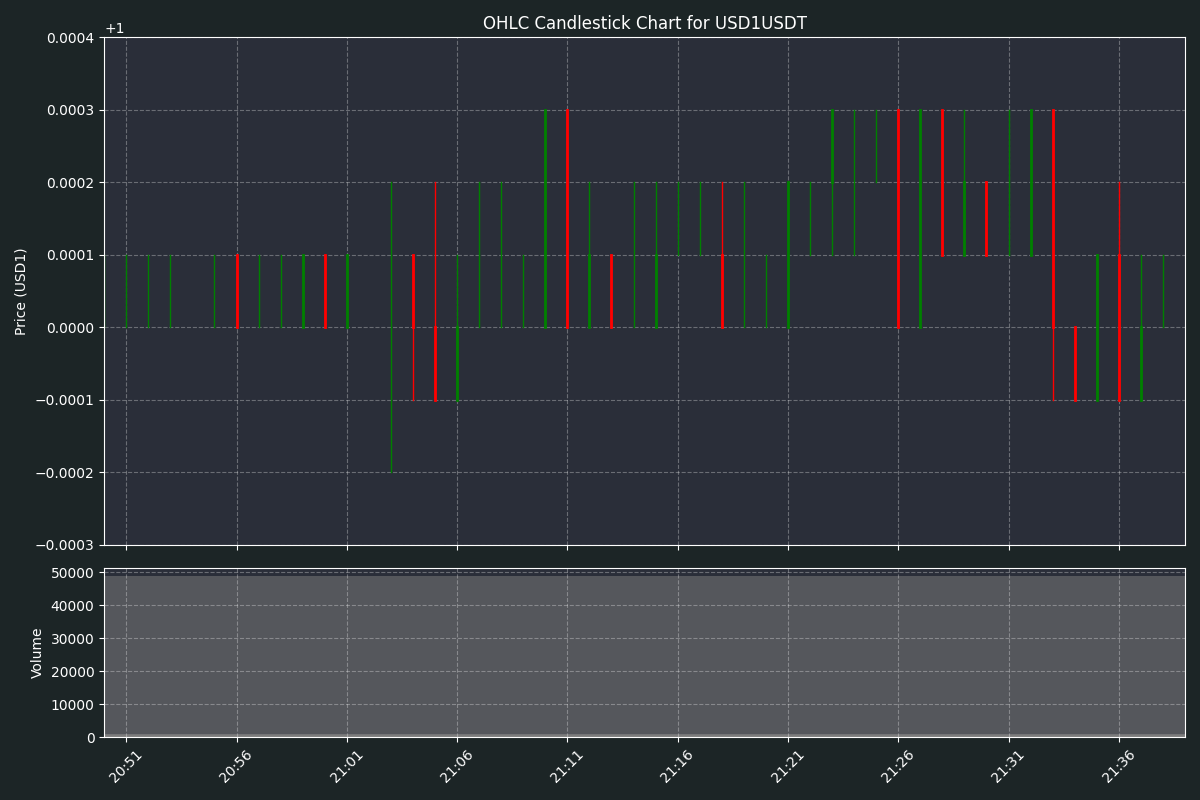
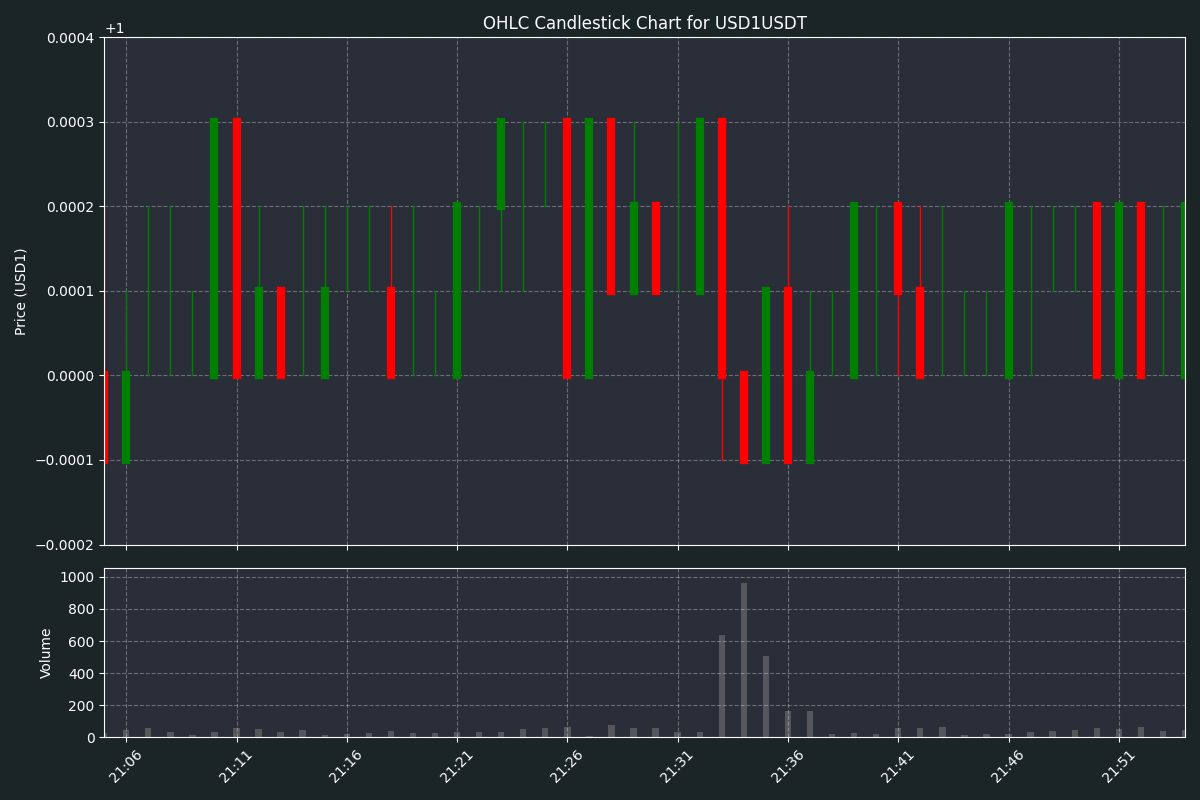
Increase candlestick width, fix volume bars, correct SDK order placement, and fix fetch_orders sync issue

diff --git a/plot.py b/plot.py
@@ -14,13 +14,13 @@ from mexc_sdk import Spot
 
 logger = logging.getLogger(__name__)
 
-async def fetch_orders(client):
-    """Fetch open and executed orders from MEXC SDK."""
+def fetch_orders(client):
+    """Fetch open and executed orders from MEXC SDK (synchronous)."""
     try:
         symbol = "USD1USDT"  # Default symbol
 
-        # Fetch open orders
-        open_orders = await client.open_orders(symbol)
+        # Fetch open orders (synchronous method)
+        open_orders = client.open_orders(symbol)  # No 'await' needed
         open_orders_list = [
             {
                 "price": float(order["price"]),
@@ -30,8 +30,8 @@ async def fetch_orders(client):
             for order in open_orders
         ]
 
-        # Fetch executed orders (trade history)
-        trades = await client.account_trade_list(symbol, limit=100)
+        # Fetch executed orders (trade history, synchronous method)
+        trades = client.account_trade_list(symbol, limit=100)  # No 'await' needed
         executed_orders = [
             {
                 "price": float(trade["price"]),
@@ -76,34 +76,47 @@ async def generate_and_send_plot(feeder, config, dynamic_dir: Path):
     df = pd.DataFrame(data)
     logger.info(f"Plotting {len(df)} klines from {df['time'].min()} to {df['time'].max()}")
 
+    # Validate volume data
+    if df["volume"].isnull().any() or (df["volume"] <= 0).all():
+        logger.warning("Volume data is invalid or all zeros, volume bars may not appear")
+    else:
+        logger.info(f"Volume range: {df['volume'].min()} to {df['volume'].max()}")
+
     # Create MEXC SDK client using config attributes
     client = Spot(api_key=config.API_KEY, api_secret=config.API_SECRET)
-    open_orders, executed_orders = await fetch_orders(client)
+    open_orders, executed_orders = fetch_orders(client)  # Synchronous call
 
     # Set up dark theme
     plt.style.use("dark_background")
     fig, (ax1, ax2) = plt.subplots(2, 1, figsize=(12, 8), gridspec_kw={'height_ratios': [3, 1]}, sharex=True)
 
-    # Candlestick chart
-    width = 0.0001  # Candle width in time fraction
+    # Candlestick chart (make candles 3x thicker)
+    width = 0.0001  # Base width for open/close ticks
     for idx, row in df.iterrows():
         color = "green" if row["close"] >= row["open"] else "red"
-        # Body
-        ax1.plot([row["time"], row["time"]], [row["open"], row["close"]], color=color, linewidth=2)
+        # Body (3x thicker: linewidth from 2 to 6)
+        ax1.plot([row["time"], row["time"]], [row["open"], row["close"]], color=color, linewidth=6)
         # Wicks
         ax1.plot([row["time"], row["time"]], [row["low"], row["high"]], color=color, linewidth=1)
-        # Open/Close ticks
-        ax1.plot([row["time"], row["time"] - pd.Timedelta(seconds=width)], [row["open"], row["open"]], color=color, linewidth=1)
-        ax1.plot([row["time"], row["time"] + pd.Timedelta(seconds=width)], [row["close"], row["close"]], color=color, linewidth=1)
+        # Open/Close ticks (adjust width proportionally: 0.0001 to 0.0003)
+        ax1.plot([row["time"], row["time"] - pd.Timedelta(seconds=width * 3)], [row["open"], row["open"]], color=color, linewidth=1)
+        ax1.plot([row["time"], row["time"] + pd.Timedelta(seconds=width * 3)], [row["close"], row["close"]], color=color, linewidth=1)
 
-    # Volume bars
-    ax2.bar(df["time"], df["volume"], color="gray", alpha=0.5)
+    # Volume bars (set width to span ~80% of a 1-minute interval)
+    bar_width = 0.0002  # Adjusted width for visibility (in fraction of time axis)
+    ax2.bar(df["time"], df["volume"], width=bar_width, color="gray", alpha=0.5)
 
     # Set price padding (1 tick = 0.0001 USD1)
     tick = 0.0001
     price_min = df["low"].min() - tick
     price_max = df["high"].max() + tick
     ax1.set_ylim(price_min, price_max)
+
+    # Set volume axis limits to ensure visibility
+    if df["volume"].max() > 0:
+        ax2.set_ylim(0, df["volume"].max() * 1.1)  # Add 10% padding above max volume
+    else:
+        ax2.set_ylim(0, 1)  # Default range if no volume
 
     # Plot open orders
     for order in open_orders:

diff --git a/strategies/API_SDK_Tools.py b/strategies/API_SDK_Tools.py
@@ -51,11 +51,11 @@ async def get_balance_sdk(client: Spot, retries: int = 3, delay: float = 2.0):
 async def place_order_sdk(client: Spot, symbol: str, side: str, quantity: float, price: float):
     """Place an order using SDK."""
     try:
-        # Use keyword arguments based on MEXC API documentation
+        # Use correct keyword 'order_type' instead of 'type'
         order = client.new_order(
             symbol=symbol,
             side="BUY" if side == "buy" else "SELL",
-            type="LIMIT",
+            order_type="LIMIT",
             quantity=str(quantity),
             price=str(price)
         )
